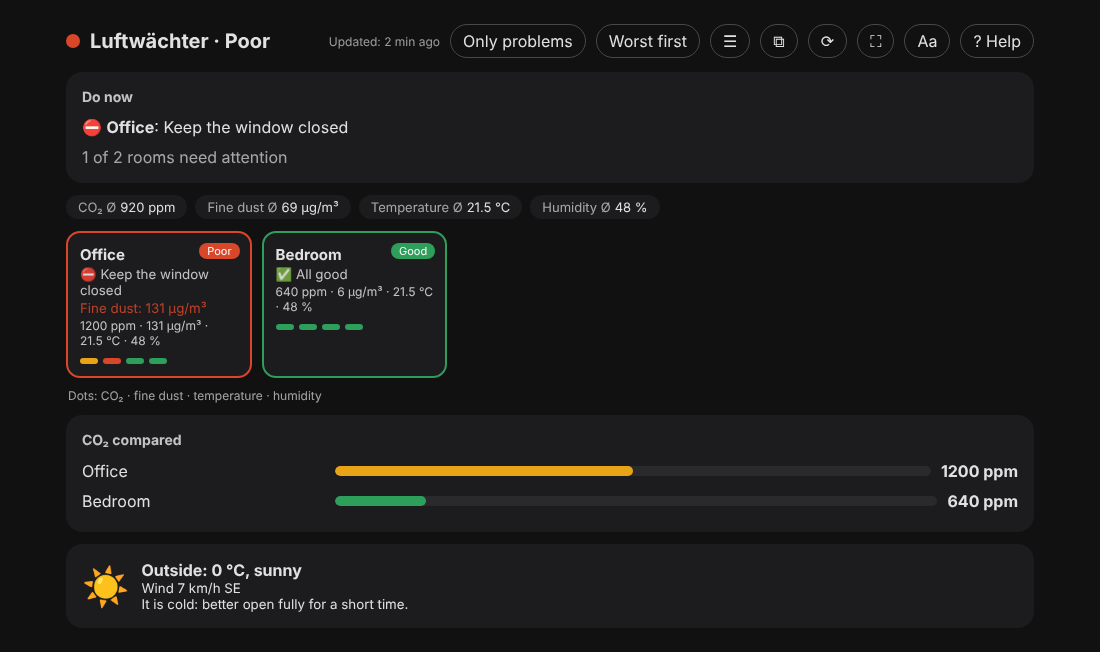
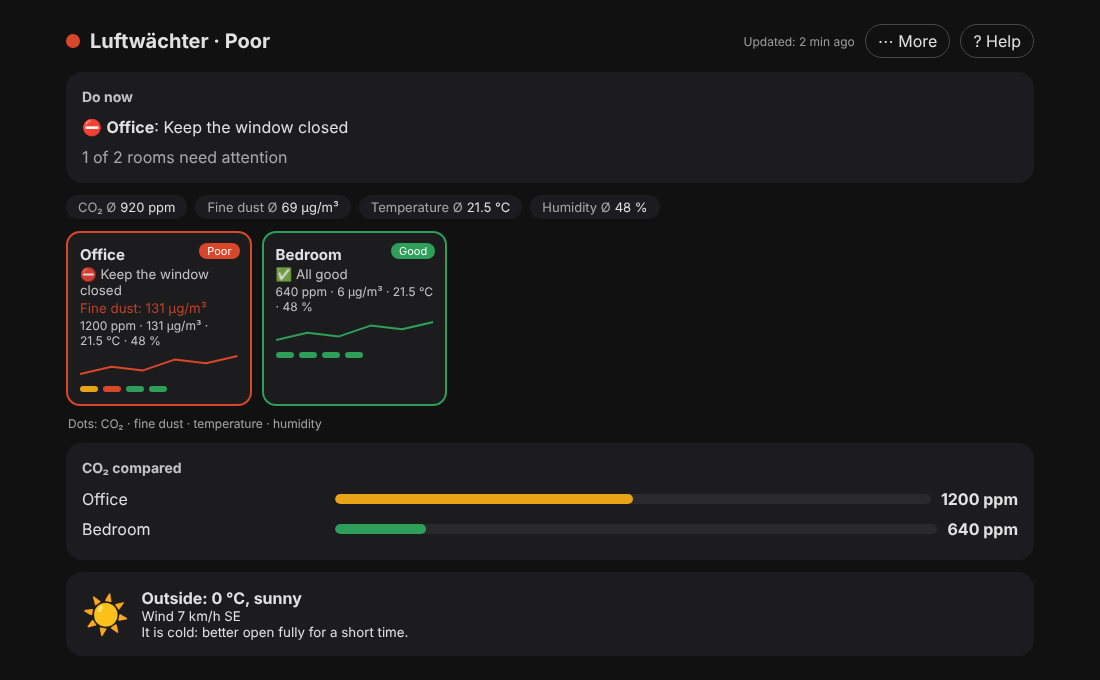
0.8.0: More menu, sparklines, time in level, color-blind mode, refresh from panel, automation blueprint, release zip
Claude-Session: https://claude.ai/code/session_01W38UNCWRvMYfcRr6jVyi8m

diff --git a/custom_components/luftwaechter/frontend/luftwaechter-panel.js b/custom_components/luftwaechter/frontend/luftwaechter-panel.js
@@ -11,7 +11,7 @@ const UI = {
     cover_open: "Auf", cover_stop: "Stopp", cover_close: "Zu", allgood: "Alle Werte im grünen Bereich.",
     isPoor: "ist schlecht", isFair: "ist mittel", tooHigh: "zu hoch", tooLow: "zu niedrig", limit: "Grenze",
     attention: "Jetzt tun", nothing: "Nichts zu tun, alles in Ordnung.", rooms_n: "{a} von {n} Räumen brauchen Aufmerksamkeit", stale: "Die Daten sind möglicherweise veraltet (letztes Update vor {n} min).",
-    size: "Textgröße", onbTitle: "So kommen Räume ins Panel", onb1: "Weise CO₂-, Feinstaub-, Temperatur- oder Luftfeuchte-Sensoren einem Bereich zu (Einstellungen → Bereiche).", onb2: "Der Raum erscheint automatisch, sobald ein Sensor Werte liefert.", onb3: "Optional: Gib einem Fenstersensor die Geräteklasse „Fenster“, dann bekommst du Lüftungsempfehlungen.", noHouse: "Die Integration Luftwächter wurde nicht gefunden. Einstellungen → Geräte & Dienste → Integration hinzufügen → Luftwächter.", legend: "Punkte: CO₂ · Feinstaub · Temperatur · Luftfeuchte", avgT: "Ø im Haus", ventStart: "Lüftungs-Timer starten ({n} min)", ventRun: "Lüften läuft", ventDone: "Zeit ist um: Fenster jetzt schließen", ventStop: "Abbrechen", fs: "Vollbild", fsExit: "Vollbild beenden", copyAll: "Hausstatus kopieren", trendUp: "Steigend", trendDown: "Fallend", onlyProblems: "Nur Probleme", rank: "CO₂ im Vergleich", rotate: "Räume automatisch durchschalten", csv: "CSV", shortcuts: "Tastatur: ← → Raum wechseln · Esc zurück · / suchen · S sortieren · O nur Probleme · V Listenansicht · R durchschalten · F Vollbild · H Hilfe", search: "Raum suchen…", noMatch: "Kein Raum gefunden.", listView: "Listenansicht", tileView: "Kachelansicht", soundOn: "Signalton bei Ablauf: an", soundOff: "Signalton bei Ablauf: aus", copyLink: "Link kopieren", mold: "Schimmelgefahr", dew: "Taupunkt", copy: "Status kopieren", copied: "Kopiert", r6h: "6 h", r24h: "24 h", r7d: "7 Tage", a6h: "vor 6 h", a24h: "vor 24 h", a7d: "vor 7 Tagen", dayU: "Tg", hourU: "h",
+    size: "Textgröße", onbTitle: "So kommen Räume ins Panel", onb1: "Weise CO₂-, Feinstaub-, Temperatur- oder Luftfeuchte-Sensoren einem Bereich zu (Einstellungen → Bereiche).", onb2: "Der Raum erscheint automatisch, sobald ein Sensor Werte liefert.", onb3: "Optional: Gib einem Fenstersensor die Geräteklasse „Fenster“, dann bekommst du Lüftungsempfehlungen.", noHouse: "Die Integration Luftwächter wurde nicht gefunden. Einstellungen → Geräte & Dienste → Integration hinzufügen → Luftwächter.", legend: "Punkte: CO₂ · Feinstaub · Temperatur · Luftfeuchte", avgT: "Ø im Haus", ventStart: "Lüftungs-Timer starten ({n} min)", ventRun: "Lüften läuft", ventDone: "Zeit ist um: Fenster jetzt schließen", ventStop: "Abbrechen", fs: "Vollbild", fsExit: "Vollbild beenden", copyAll: "Hausstatus kopieren", trendUp: "Steigend", trendDown: "Fallend", onlyProblems: "Nur Probleme", rank: "CO₂ im Vergleich", rotate: "Räume automatisch durchschalten", csv: "CSV", shortcuts: "Tastatur: ← → Raum wechseln · Esc zurück · / suchen · S sortieren · O nur Probleme · V Listenansicht · M Menü · R durchschalten · F Vollbild · H Hilfe", search: "Raum suchen…", noMatch: "Kein Raum gefunden.", listView: "Listenansicht", tileView: "Kachelansicht", soundOn: "Signalton bei Ablauf: an", soundOff: "Signalton bei Ablauf: aus", copyLink: "Link kopieren", mold: "Schimmelgefahr", dew: "Taupunkt", more: "Mehr", refreshNow: "Jetzt aktualisieren", cbMode: "Farbenblind-Modus (Symbole)", sinceFor: "{l} seit {t}", copy: "Status kopieren", copied: "Kopiert", r6h: "6 h", r24h: "24 h", r7d: "7 Tage", a6h: "vor 6 h", a24h: "vor 24 h", a7d: "vor 7 Tagen", dayU: "Tg", hourU: "h",
     helpTitle: "Was bedeuten die Messwerte?", causes: "Mögliche Ursachen", todo: "Was hilft",
     hCo2: "CO₂ (Kohlendioxid) zeigt, wie verbraucht die Raumluft ist. Wir atmen es aus.",
     cCo2: "Viele Personen im Raum, Schlafen bei geschlossenem Fenster, kleine Räume, geschlossene Türen, Kerzen oder Gasflammen.",
@@ -36,7 +36,7 @@ const UI = {
     cover_open: "Open", cover_stop: "Stop", cover_close: "Close", allgood: "All readings are in the green.",
     isPoor: "is poor", isFair: "is fair", tooHigh: "too high", tooLow: "too low", limit: "Limit",
     attention: "Do now", nothing: "Nothing to do, all good.", rooms_n: "{a} of {n} rooms need attention", stale: "Data may be outdated (last update {n} min ago).",
-    size: "Text size", onbTitle: "How rooms get into the panel", onb1: "Assign CO₂, fine dust, temperature or humidity sensors to an area (Settings → Areas).", onb2: "The room appears automatically as soon as a sensor reports values.", onb3: "Optional: give a window sensor the device class \"window\" to get ventilation advice.", noHouse: "The Luftwächter integration was not found. Settings → Devices & services → Add integration → Luftwächter.", legend: "Dots: CO₂ · fine dust · temperature · humidity", avgT: "House average", ventStart: "Start ventilation timer ({n} min)", ventRun: "Ventilating", ventDone: "Time is up: close the window now", ventStop: "Cancel", fs: "Full screen", fsExit: "Exit full screen", copyAll: "Copy house status", trendUp: "Rising", trendDown: "Falling", onlyProblems: "Only problems", rank: "CO₂ compared", rotate: "Rotate through rooms automatically", csv: "CSV", shortcuts: "Keyboard: ← → switch room · Esc back · / search · S sort · O only problems · V list view · R rotate · F full screen · H help", search: "Find a room…", noMatch: "No room found.", listView: "List view", tileView: "Tile view", soundOn: "Sound when time is up: on", soundOff: "Sound when time is up: off", copyLink: "Copy link", mold: "Mold risk", dew: "Dew point", copy: "Copy status", copied: "Copied", r6h: "6 h", r24h: "24 h", r7d: "7 days", a6h: "6 h ago", a24h: "24 h ago", a7d: "7 days ago", dayU: "d", hourU: "h",
+    size: "Text size", onbTitle: "How rooms get into the panel", onb1: "Assign CO₂, fine dust, temperature or humidity sensors to an area (Settings → Areas).", onb2: "The room appears automatically as soon as a sensor reports values.", onb3: "Optional: give a window sensor the device class \"window\" to get ventilation advice.", noHouse: "The Luftwächter integration was not found. Settings → Devices & services → Add integration → Luftwächter.", legend: "Dots: CO₂ · fine dust · temperature · humidity", avgT: "House average", ventStart: "Start ventilation timer ({n} min)", ventRun: "Ventilating", ventDone: "Time is up: close the window now", ventStop: "Cancel", fs: "Full screen", fsExit: "Exit full screen", copyAll: "Copy house status", trendUp: "Rising", trendDown: "Falling", onlyProblems: "Only problems", rank: "CO₂ compared", rotate: "Rotate through rooms automatically", csv: "CSV", shortcuts: "Keyboard: ← → switch room · Esc back · / search · S sort · O only problems · V list view · M menu · R rotate · F full screen · H help", search: "Find a room…", noMatch: "No room found.", listView: "List view", tileView: "Tile view", soundOn: "Sound when time is up: on", soundOff: "Sound when time is up: off", copyLink: "Copy link", mold: "Mold risk", dew: "Dew point", more: "More", refreshNow: "Refresh now", cbMode: "Color-blind mode (symbols)", sinceFor: "{l} for {t}", copy: "Copy status", copied: "Copied", r6h: "6 h", r24h: "24 h", r7d: "7 days", a6h: "6 h ago", a24h: "24 h ago", a7d: "7 days ago", dayU: "d", hourU: "h",
     helpTitle: "What do the readings mean?", causes: "Possible causes", todo: "What helps",
     hCo2: "CO₂ (carbon dioxide) shows how stale the room air is. We breathe it out.",
     cCo2: "Many people in the room, sleeping with the window closed, small rooms, closed doors, candles or gas flames.",
@@ -83,14 +83,14 @@ class LuftwaechterPanel extends HTMLElement {
     this._range = store.get("lw_range") || "24h";
     this._size = parseInt(store.get("lw_size") || "1", 10);
     this._only = store.get("lw_only") === "1";
-    this._list = store.get("lw_list") === "1"; this._snd = store.get("lw_snd") === "1"; this._q = "";
+    this._list = store.get("lw_list") === "1"; this._snd = store.get("lw_snd") === "1"; this._q = ""; this._cb = store.get("lw_cb") === "1"; this._menu = false;
     this._help = false;
     this._hist = {};
     try { const m = /[#&]room=([^&]+)/.exec(location.hash); if (m) this._sel = decodeURIComponent(m[1]); } catch (e) { /* ignore */ }
     try { const v = JSON.parse(store.get("lw_vent") || "null"); this._vent = v && v.end > Date.now() - 600000 ? v : null; } catch (e) { this._vent = null; }
     this._rot = false; this._rotTimer = null; this._wl = null;
     this._onFs = () => { this._wakelock(); this._render(); };
-    this.shadowRoot.addEventListener("pointerdown", (ev) => { if (this._rot && !ev.composedPath().some((n) => n.id === "rot")) this._rotStop(false); }, true);
+    this.shadowRoot.addEventListener("pointerdown", (ev) => { if (this._menu && !ev.composedPath().some((n) => n.id === "menuwrap")) this._toggleMenu(false); if (this._rot && !ev.composedPath().some((n) => n.id === "rot")) this._rotStop(false); }, true);
     this._onKey = (ev) => this._key(ev);
   }
   connectedCallback() {
@@ -112,6 +112,28 @@ class LuftwaechterPanel extends HTMLElement {
     const left = this._ventLeft(), root = this.shadowRoot;
     if (left <= 0 && !this._vent.done) { this._vent.done = true; store.set("lw_vent", JSON.stringify(this._vent)); try { navigator.vibrate && navigator.vibrate([200, 100, 200]); } catch (e) { /* ignore */ } if (this._snd) this._beep(); this._render(); return; }
     root.querySelectorAll(".venttime").forEach((n) => { n.textContent = this._fmtT(left); });
+  }
+  _toggleMenu(open) {
+    this._menu = open === undefined ? !this._menu : open;
+    const m = this.shadowRoot.querySelector("#menu"), b = this.shadowRoot.querySelector("#more");
+    if (m) m.hidden = !this._menu; if (b) b.setAttribute("aria-expanded", String(this._menu));
+    if (this._menu && m) m.querySelector("button")?.focus(); else if (b && open === undefined) b.focus();
+  }
+  _menuItems(rooms, sel, t) {
+    const b = (id, icon, label, pressed) => `<button class="mi" id="${id}"${pressed === undefined ? "" : ` aria-pressed="${pressed}"`}><span aria-hidden="true">${icon}</span> ${esc(label)}</button>`;
+    const many = rooms.length > 1, ov = !sel, fs = document.fullscreenElement;
+    return [ov && many ? b("only", "⚠", t.onlyProblems, this._only) : "", ov && many ? b("sort", "↕", this._sort === "worst" ? t.sortWorst : t.sortName) : "",
+      ov && many ? b("dens", this._list ? "▦" : "☰", this._list ? t.tileView : t.listView) : "", many ? b("rot", "⟳", t.rotate, this._rot) : "",
+      ov && rooms.length ? b("copyall", "⧉", t.copyAll) : "", document.fullscreenEnabled ? b("fs", fs ? "🗗" : "⛶", fs ? t.fsExit : t.fs) : "",
+      b("size", "Aa", t.size), b("cb", "◐", t.cbMode, this._cb), b("refresh", "↻", t.refreshNow)].join("");
+  }
+  _sym(i) { return ["✓", "!", "✕"][i] || "–"; }
+  _dur(min) { return min < 60 ? `${min} min` : `${Math.floor(min / 60)} h ${min % 60} min`; }
+  _spark(r) {
+    const d = r.spark; if (!d || d.length < 3) return "";
+    const mn = Math.min(...d), mx = Math.max(...d), rg = Math.max(mx - mn, 100), st = 100 / (d.length - 1);
+    const pts = d.map((v, i) => `${(i * st).toFixed(1)},${(20 - ((v - mn) / rg) * 18).toFixed(1)}`).join(" ");
+    return `<svg class="spark" viewBox="0 0 100 22" preserveAspectRatio="none" aria-hidden="true"><polyline points="${pts}" fill="none" stroke="${this._col(r.level)}" stroke-width="2" vector-effect="non-scaling-stroke" stroke-linejoin="round"/></svg>`;
   }
   _beep() {
     try {
@@ -174,6 +196,7 @@ class LuftwaechterPanel extends HTMLElement {
   _select(key) { this._sel = key; store.set("lw_room", key || ""); try { history.replaceState(null, "", key ? "#room=" + encodeURIComponent(key) : location.pathname + location.search); } catch (e) { /* ignore */ } this._render(); }
   _key(ev) {
     if (this.offsetParent === null && !this.isConnected) return;
+    if (ev.key === "Escape" && this._menu) { this._toggleMenu(false); this.shadowRoot.querySelector("#more")?.focus(); return; }
     if (ev.key === "Escape") { if (this._help) { this._closeHelp(); } else if (this._sel) this._select(null); return; }
     if (ev.ctrlKey || ev.metaKey || ev.altKey) return;
     const tg = ev.composedPath && ev.composedPath()[0];
@@ -185,6 +208,7 @@ class LuftwaechterPanel extends HTMLElement {
       if (k === "s" && !this._sel) { this._sort = this._sort === "worst" ? "name" : "worst"; store.set("lw_sort", this._sort); this._render(); return; }
       if (k === "o" && !this._sel) { this._only = !this._only; store.set("lw_only", this._only ? "1" : "0"); this._render(); return; }
       if (k === "/" && !this._sel) { const qi = this.shadowRoot.querySelector("#q"); if (qi) { ev.preventDefault(); qi.focus(); return; } }
+      if (k === "m") { this._toggleMenu(); return; }
       if (k === "v" && !this._sel) { this._list = !this._list; store.set("lw_list", this._list ? "1" : "0"); this._render(); return; }
       if (k === "r" && rooms_ok(this)) { this._rotToggle(); return; }
       if (k === "f") { try { document.fullscreenElement ? document.exitFullscreen() : this.requestFullscreen(); } catch (e) { /* ignore */ } return; }
@@ -371,10 +395,14 @@ header{position:sticky;top:0;z-index:5;background:var(--primary-background-color
 .onb ol{margin:8px 0 0;padding-left:20px;display:grid;gap:6px}
 .tiles.list{grid-template-columns:1fr}.tiles.list .tile{flex-direction:row;flex-wrap:wrap;align-items:center;gap:2px 14px}.tiles.list .tile b{padding-right:0;min-width:120px}.tiles.list .dots{margin:0 0 0 auto}.tiles.list .pill{position:static}
 .search{width:100%;margin:0 0 10px;padding:8px 12px;border-radius:18px;border:1px solid var(--divider-color,#8884);background:var(--card-background-color,#f4f6f8);color:inherit;font:inherit}
-.mold{color:#d9472b}[hidden]{display:none!important}
+.mold{color:#d9472b}
+.menuwrap{position:relative}.menu{position:absolute;right:0;top:calc(100% + 6px);z-index:20;min-width:250px;background:var(--card-background-color,#fff);border:1px solid var(--divider-color,#8884);border-radius:14px;padding:6px;display:grid;gap:2px;box-shadow:0 8px 24px #0006}
+.mi{border:0;background:none;text-align:left;padding:9px 12px;border-radius:10px;cursor:pointer;display:flex;gap:10px;align-items:center}.mi:hover{background:var(--secondary-background-color,#e8ebee)}.mi span{width:20px;text-align:center}.mi[aria-pressed=true]::after{content:"✓";margin-left:auto;color:var(--primary-color,#03a9f4)}
+.spark{display:block;width:100%;height:22px;margin-top:6px}.tiles.list .spark{width:110px;margin:0}
+.dots.cbd{gap:6px}.dots.cbd i{width:20px;height:20px;border-radius:6px;font-style:normal;font-size:12px;line-height:20px;text-align:center;color:#fff;font-weight:700}.val small .sym{font-weight:700;margin-right:4px}[hidden]{display:none!important}
 @media (forced-colors:active){.tile{border:2px solid CanvasText!important}}
 @media (prefers-reduced-motion:reduce){*{animation:none!important;transition:none!important;scroll-behavior:auto!important}}
-@media print{.tool,.back,#ovl,.chips{display:none!important}.wrap{max-width:none}}
+@media print{.menuwrap,.tool,.back,#ovl,.chips{display:none!important}.wrap{max-width:none}}
 @media (prefers-reduced-motion:no-preference){.tile,.dev,.chip{transition:filter .15s}}`;
     if (!e) { const has = this._hass && this._hass.states && Object.keys(this._hass.states).length > 5; root.innerHTML = `<style>${css}</style><div class="wrap" role="main">${has ? `<div class="card">${esc(t.noHouse)}</div>` : "<p>…</p>"}</div>`; return; }
     const a = this._attrs(), rooms = this._rooms();
@@ -391,22 +419,22 @@ header{position:sticky;top:0;z-index:5;background:var(--primary-background-color
         const bad = r.values.filter((v) => v.level >= 1 && v.raw != null).sort((x, y) => y.level - x.level)[0];
         const co2 = r.values.find((v) => v.key === "co2");
         return `<button class="tile" data-name="${esc(r.name.toLowerCase())}" data-room="${esc(r.key)}" style="border-color:${this._col(r.level)}" aria-label="${esc(r.name)}: ${esc(t[r.level] || t.unknown)}">
-          <b>${esc(r.name)}</b><span class="pill" style="background:${this._col(r.level)}">${esc(t[r.level] || t.unknown)}</span><small>${LVLICON[["good", "fair", "poor"].indexOf(r.level)] || "❔"} ${esc(r.headline)}</small>
-          ${bad ? `<small style="color:${COL[bad.level]}">${esc(t[bad.key])}: ${esc(bad.value)} ${esc(bad.unit)}</small>` : ""}<small class="mini">${r.values.filter((v) => v.raw != null).map((v) => esc(v.value) + "\u00a0" + esc(v.unit)).join(" · ")}</small>${r.trend === "up" || r.trend === "down" ? `<small>${r.trend === "up" ? "↗" : "↘"} ${esc(t[r.trend === "up" ? "trendUp" : "trendDown"])}</small>` : ""}${r.mold ? `<small class="mold">💧 ${esc(t.mold)}</small>` : ""}<div class="dots" aria-hidden="true">${r.values.map((v) => `<i title="${esc(t[v.key])}: ${esc(v.value)} ${esc(v.unit)}" style="background:${this._lcol(v.level)}"></i>`).join("")}</div></button>`;
+          <b>${esc(r.name)}</b><span class="pill" title="${r.since >= 2 ? esc(t.sinceFor.replace("{l}", t[r.level] || t.unknown).replace("{t}", this._dur(r.since))) : ""}" style="background:${this._col(r.level)}">${esc(t[r.level] || t.unknown)}</span><small>${LVLICON[["good", "fair", "poor"].indexOf(r.level)] || "❔"} ${esc(r.headline)}</small>
+          ${bad ? `<small style="color:${COL[bad.level]}">${esc(t[bad.key])}: ${esc(bad.value)} ${esc(bad.unit)}</small>` : ""}<small class="mini">${r.values.filter((v) => v.raw != null).map((v) => esc(v.value) + "\u00a0" + esc(v.unit)).join(" · ")}</small>${r.trend === "up" || r.trend === "down" ? `<small>${r.trend === "up" ? "↗" : "↘"} ${esc(t[r.trend === "up" ? "trendUp" : "trendDown"])}</small>` : ""}${r.mold ? `<small class="mold">💧 ${esc(t.mold)}</small>` : ""}${this._spark(r)}<div class="dots${this._cb ? " cbd" : ""}" aria-hidden="true">${r.values.map((v) => `<i title="${esc(t[v.key])}: ${esc(v.value)} ${esc(v.unit)}" style="background:${this._lcol(v.level)}">${this._cb ? this._sym(v.level) : ""}</i>`).join("")}</div></button>`;
       }).join("")}</div><p class="muted legend">${esc(t.legend)}</p>${this._rank(rooms, t)}`;
     } else {
       const li = rooms.findIndex((r) => r.key === sel.key);
       body = `<div class="nav"><button class="back" id="back">← ${esc(t.back)}</button><span class="sp"></span><button class="tool" id="link">${esc(t.copyLink)}</button><button class="tool" id="copy">${esc(t.copy)}</button><button class="tool" id="prev" aria-label="${esc(t.prev)}">‹</button><button class="tool" id="next" aria-label="${esc(t.next)}">›</button></div>
-      <div class="card"><div class="head"><span class="big">${["keep_closed", "unknown"].includes(sel.action) && LVLICON[["good", "fair", "poor"].indexOf(sel.level)] ? LVLICON[["good", "fair", "poor"].indexOf(sel.level)] : ICON[sel.action] || ""}</span><div><h2>${esc(sel.name)} · ${esc(sel.headline)}<span class="badge" style="background:${this._col(sel.level)}">${esc(t[sel.level] || t.unknown)}</span></h2><p>${esc(sel.detail)}</p>${sel.trend === "up" || sel.trend === "down" ? `<p class="muted">${sel.trend === "up" ? "↗" : "↘"} ${esc(t[sel.trend === "up" ? "trendUp" : "trendDown"])}</p>` : ""}</div></div>${sel.warn ? `<div class="warn">${esc(sel.warn)}</div>` : ""}</div>${this._ventCard(sel, t)}
+      <div class="card"><div class="head"><span class="big">${["keep_closed", "unknown"].includes(sel.action) && LVLICON[["good", "fair", "poor"].indexOf(sel.level)] ? LVLICON[["good", "fair", "poor"].indexOf(sel.level)] : ICON[sel.action] || ""}</span><div><h2>${esc(sel.name)} · ${esc(sel.headline)}<span class="badge" style="background:${this._col(sel.level)}">${esc(t[sel.level] || t.unknown)}</span></h2><p>${esc(sel.detail)}</p>${sel.trend === "up" || sel.trend === "down" ? `<p class="muted">${sel.trend === "up" ? "↗" : "↘"} ${esc(t[sel.trend === "up" ? "trendUp" : "trendDown"])}</p>` : ""}${sel.since >= 2 ? `<p class="muted">⏳ ${esc(t.sinceFor.replace("{l}", t[sel.level] || t.unknown).replace("{t}", this._dur(sel.since)))}</p>` : ""}</div></div>${sel.warn ? `<div class="warn">${esc(sel.warn)}</div>` : ""}</div>${this._ventCard(sel, t)}
       <div class="cols"><div><div class="card"><h3>${esc(t.problems)}</h3>${this._problems(sel, t)}</div>
-        <div class="card"><h3>${esc(t.values)}</h3><div class="vals">${sel.values.map((v) => `<div class="val" style="border-color:${this._lcol(v.level)}" title="${esc(t.limits)}: ${esc(this._lim(v.key))}"><small>${esc(t[v.key])}</small><b>${esc(v.value)}</b> <i>${esc(v.unit)}</i>${this._gauge(v)}</div>`).join("")}</div>${sel.dew ? `<p class="muted" style="margin-top:8px">${esc(t.dew)}: ${esc(sel.dew)} °C${sel.mold ? ` · <span class="mold">💧 ${esc(t.mold)}</span>` : ""}</p>` : ""}</div></div>
+        <div class="card"><h3>${esc(t.values)}</h3><div class="vals">${sel.values.map((v) => `<div class="val" style="border-color:${this._lcol(v.level)}" title="${esc(t.limits)}: ${esc(this._lim(v.key))}"><small>${this._cb ? `<span class="sym">${this._sym(v.level)}</span>` : ""}${esc(t[v.key])}</small><b>${esc(v.value)}</b> <i>${esc(v.unit)}</i>${this._gauge(v)}</div>`).join("")}</div>${sel.dew ? `<p class="muted" style="margin-top:8px">${esc(t.dew)}: ${esc(sel.dew)} °C${sel.mold ? ` · <span class="mold">💧 ${esc(t.mold)}</span>` : ""}</p>` : ""}</div></div>
         <div>${this._chart(sel, t)}${this._devices(sel, t)}</div></div>`;
       this._pendingHist = sel;
     }
     const o = a.outside;
     const out = o ? `<div class="card out"><span class="big">${esc(o.icon)}</span><div><b>${esc(t.outside)}: ${esc(o.temp)} °C, ${esc(o.cond)}</b><br><small>${esc(t.wind)} ${esc(o.wind)} km/h ${esc(o.windDir)}${o.hum && o.hum !== "–" ? " · " + esc(o.hum) + " %" : ""}</small><br><small>${esc(o.tip)}</small></div></div>` : "";
     root.innerHTML = `<style>${css}</style><div class="wrap" role="main"><header><span class="dot" style="background:${this._col(e.state)}"></span><h1 aria-live="polite">${esc(t.title)} · ${esc(t[e.state] || t.unknown)}</h1><span class="upd">${esc(this._age(e, t))}</span>
-      ${!sel && rooms.length > 1 ? `<button class="tool" id="only" aria-pressed="${this._only}">${esc(t.onlyProblems)}</button>` : ""}${!sel && rooms.length > 1 ? `<button class="tool" id="sort">${esc(this._sort === "worst" ? t.sortWorst : t.sortName)}</button>` : ""}${!sel && rooms.length > 1 ? `<button class="tool" id="dens" aria-pressed="${this._list}" title="${esc(this._list ? t.tileView : t.listView)}" aria-label="${esc(this._list ? t.tileView : t.listView)}">${this._list ? "▦" : "☰"}</button>` : ""}${this._vent && (!sel || sel.key !== this._vent.key) ? `<button class="tool" id="ventpill" data-room="${esc(this._vent.key)}">⏱ <span class="venttime">${esc(this._fmtT(this._ventLeft()))}</span></button>` : ""}${!sel && rooms.length ? `<button class="tool" id="copyall" title="${esc(t.copyAll)}" aria-label="${esc(t.copyAll)}">⧉</button>` : ""}${rooms.length > 1 ? `<button class="tool" id="rot" aria-pressed="${this._rot}" title="${esc(t.rotate)}" aria-label="${esc(t.rotate)}">⟳</button>` : ""}${document.fullscreenEnabled ? `<button class="tool" id="fs" title="${esc(document.fullscreenElement ? t.fsExit : t.fs)}" aria-label="${esc(document.fullscreenElement ? t.fsExit : t.fs)}">${document.fullscreenElement ? "🗗" : "⛶"}</button>` : ""}<button class="tool" id="size" aria-label="${esc(t.size)}" title="${esc(t.size)}">Aa</button><button class="tool" id="help" aria-label="${esc(t.help)}">? ${esc(t.help)}</button></header><div class="stale" id="stale" role="status" ${this._staleMin() < this._staleLimit() ? "hidden" : ""}>${esc(t.stale.replace("{n}", this._staleMin()))}</div>${body}${out}${this._helpDlg(t)}</div>`;
+      ${this._vent && (!sel || sel.key !== this._vent.key) ? `<button class="tool" id="ventpill" data-room="${esc(this._vent.key)}">⏱ <span class="venttime">${esc(this._fmtT(this._ventLeft()))}</span></button>` : ""}<span class="menuwrap" id="menuwrap"><button class="tool" id="more" aria-haspopup="true" aria-expanded="${this._menu}">⋯ ${esc(t.more)}</button><div class="menu" id="menu" ${this._menu ? "" : "hidden"}>${this._menuItems(rooms, sel, t)}</div></span><button class="tool" id="help" aria-label="${esc(t.help)}">? ${esc(t.help)}</button></header><div class="stale" id="stale" role="status" ${this._staleMin() < this._staleLimit() ? "hidden" : ""}>${esc(t.stale.replace("{n}", this._staleMin()))}</div>${body}${out}${this._helpDlg(t)}</div>`;
     const q = (s) => root.querySelector(s), qa = (s) => root.querySelectorAll(s);
     if (this._refocus) { this._refocus = false; q("#help")?.focus(); }
     qa(".tile").forEach((b) => b.addEventListener("click", () => this._select(b.dataset.room)));
@@ -423,6 +451,10 @@ header{position:sticky;top:0;z-index:5;background:var(--primary-background-color
     q("#ventstop")?.addEventListener("click", () => this._ventStop());
     q("#ventpill")?.addEventListener("click", (ev) => this._select(ev.currentTarget.dataset.room));
     q("#rot")?.addEventListener("click", () => this._rotToggle());
+    q("#more")?.addEventListener("click", () => this._toggleMenu());
+    q("#menu")?.addEventListener("click", () => { this._menu = false; }, true);
+    q("#cb")?.addEventListener("click", () => { this._cb = !this._cb; store.set("lw_cb", this._cb ? "1" : "0"); this._render(); });
+    q("#refresh")?.addEventListener("click", () => { try { this._hass.callService("luftwaechter", "refresh", {}); } catch (e) { /* ignore */ } });
     q("#dens")?.addEventListener("click", () => { this._list = !this._list; store.set("lw_list", this._list ? "1" : "0"); this._render(); });
     q("#snd")?.addEventListener("click", () => { this._snd = !this._snd; store.set("lw_snd", this._snd ? "1" : "0"); if (this._snd) this._beep(); this._render(); });
     q("#link")?.addEventListener("click", async (ev) => { const b = ev.currentTarget; try { await navigator.clipboard.writeText(location.origin + location.pathname + "#room=" + encodeURIComponent(sel.key)); b.textContent = t.copied + " ✓"; } catch (er) { b.textContent = "✗"; } });

diff --git a/tests/panel.spec.py b/tests/panel.spec.py
@@ -8,6 +8,7 @@ def room(k, n, lv, act, head, det, co2, pm=6, pml=0, co2l=1):
     return {"key": k, "name": n, "level": lv, "action": act, "headline": head, "detail": det, "warn": "",
         "values": [{"key": "co2", "value": str(co2), "raw": co2, "unit": "ppm", "level": co2l}, {"key": "pm25", "value": str(pm), "raw": pm, "unit": "µg/m³", "level": pml},
                    {"key": "temperature", "value": "21.5", "raw": 21.5, "unit": "°C", "level": 0}, {"key": "humidity", "value": "48", "raw": 48, "unit": "%", "level": 0}],
+        "spark": [co2 - 150, co2 - 90, co2 - 120, co2 - 30, co2 - 60, co2], "since": 95 if lv == "poor" else 12,
         "sources": {"carbon_dioxide": ["sensor.co2_" + k], "pm25": ["sensor.pm_" + k], "temperature": [], "humidity": []},
         "devices": [{"entity": "light.office", "name": "Lamp", "domain": "light", "group": "Light", "type": "switch"},
                     {"entity": "climate.a", "name": "Heizung", "domain": "climate", "group": "Heating", "type": "climate"},
@@ -133,6 +134,20 @@ with sync_playwright() as p:
     clk("#snd"); assert pg.evaluate("el._snd") is False
     pg.evaluate("() => { const h = el._hass; const e = h.states['sensor.luftwaechter_house']; e.attributes = window.orig; e.last_updated = 't13'; el.hass = Object.assign({}, h); el._select(null); }")
     assert pg.evaluate("el.shadowRoot.querySelectorAll('.tile').length") == 2 and pg.evaluate("!el.shadowRoot.querySelector('#q')")
+    # 0.8.0: header menu, sparklines, time in level, color-blind symbols, refresh action
+    assert pg.evaluate("el.shadowRoot.querySelector('#menu').hidden") is True
+    assert pg.evaluate("el.shadowRoot.querySelectorAll('.tile .spark').length") == 2 and "Poor for 1 h 35 min" not in pg.evaluate("el.shadowRoot.querySelector('.tile').textContent")
+    assert pg.evaluate("el.shadowRoot.querySelector('.tile .pill').title") == "Poor for 1 h 35 min"
+    pg.keyboard.press("m"); assert pg.evaluate("el.shadowRoot.querySelector('#menu').hidden") is False and pg.evaluate("el.shadowRoot.querySelector('#more').getAttribute('aria-expanded')") == "true"
+    assert pg.evaluate("[...el.shadowRoot.querySelectorAll('#menu .mi')].length") >= 7
+    pg.screenshot(path=str(out / "menu.png"))
+    pg.keyboard.press("Escape"); assert pg.evaluate("el.shadowRoot.querySelector('#menu').hidden") is True
+    clk("#refresh"); assert pg.evaluate("window.calls.at(-1)") == ["luftwaechter", "refresh", None]
+    clk("#cb"); assert pg.evaluate("el._cb") is True and pg.evaluate("!!el.shadowRoot.querySelector('.dots.cbd')") and "✓" in pg.evaluate("el.shadowRoot.querySelector('.dots').textContent")
+    pg.screenshot(path=str(out / "colorblind.png"))
+    clk("#cb"); assert pg.evaluate("el._cb") is False and pg.evaluate("!el.shadowRoot.querySelector('.dots.cbd')")
+    pg.evaluate("el._select('o')"); assert "Poor for 1 h 35 min" in txt()
+    pg.evaluate("el._select(null)")
     # German UI screenshot for the README: server text in English, this viewer is German
     pg.evaluate("""() => { const h = el._hass, e = h.states['sensor.luftwaechter_house']; const a = JSON.parse(JSON.stringify(window.orig));
       const m = { 'Keep the window closed': 'Fenster zu lassen', 'All good': 'Alles in Ordnung', 'High fine dust in the room. Do not ventilate continuously.': 'Hoher Feinstaub im Raum. Nicht dauerhaft lüften.', 'The window can stay closed.': 'Das Fenster kann geschlossen bleiben.' };
@@ -167,7 +182,7 @@ with sync_playwright() as p:
     if docs:
         docs.mkdir(exist_ok=True)
         import shutil
-        for src, dst, maxh in (("overview", "overview", 9999), ("room_desktop", "room", 9999), ("help", "help", 9999), ("room_phone", "phone", 9999), ("overview_de", "overview_de", 9999), ("overview_light", "overview_light", 9999), ("timer", "timer", 300)):
+        for src, dst, maxh in (("overview", "overview", 9999), ("room_desktop", "room", 9999), ("help", "help", 9999), ("room_phone", "phone", 9999), ("overview_de", "overview_de", 9999), ("overview_light", "overview_light", 9999), ("timer", "timer", 300), ("menu", "menu", 9999)):
             from PIL import Image, ImageChops
             im = Image.open(out / f"{src}.png").convert("RGB")
             bgc = Image.new("RGB", im.size, (17, 17, 17))

diff --git a/custom_components/luftwaechter/coordinator.py b/custom_components/luftwaechter/coordinator.py
@@ -43,6 +43,7 @@ class LuftwaechterCoordinator(DataUpdateCoordinator[dict]):
         self.lang = "en"
         self._samples: dict[str, deque] = {}
         self._levels: dict[str, str] | None = None
+        self._since: dict[str, tuple[str, float]] = {}
 
     @property
     def weather_entity(self) -> str | None:
@@ -126,6 +127,8 @@ class LuftwaechterCoordinator(DataUpdateCoordinator[dict]):
         """Add a rising/falling trend per room and fire an event when a room's level changes."""
         now = model["updated"]
         trends: dict[str, str] = {}
+        sparks: dict[str, list[int]] = {}
+        sinces: dict[str, int] = {}
         for r in model["rooms"]:
             co2 = next((v["raw"] for v in r["values"] if v["key"] == "co2"), None)
             pm = next((v["raw"] for v in r["values"] if v["key"] == "pm25"), None)
@@ -140,9 +143,17 @@ class LuftwaechterCoordinator(DataUpdateCoordinator[dict]):
                     trend = "up" if diff > step else "down" if diff < -step else "flat"
                 q.append((now, kind, val))
             trends[r["key"]] = trend
+            spark = [round(s[2]) for s in q if s[1] == kind][-30:]
+            sparks[r["key"]] = spark if len(spark) >= 3 else []
+            prev = self._since.get(r["key"])
+            if prev is None or prev[0] != r["level"]:
+                self._since[r["key"]] = (r["level"], now)
+            sinces[r["key"]] = int((now - self._since[r["key"]][1]) // 60)
         for rooms in [model["rooms"]] + [a["rooms"] for a in model.get("alt", {}).values()]:
             for r in rooms:
                 r["trend"] = trends.get(r["key"], "")
+                r["spark"] = sparks.get(r["key"], [])
+                r["since"] = sinces.get(r["key"], 0)
         levels = {r["key"]: r["level"] for r in model["rooms"]}
         if self._levels is not None:
             for r in model["rooms"]:

diff --git a/tests/test_integration.py b/tests/test_integration.py
@@ -121,6 +121,21 @@ async def test_attention_binary_sensor(hass, enable_custom_integrations):
     assert house.attributes["attention"] == 0 and house.attributes["stale_min"] == 10
 
 
+async def test_room_since_and_spark(hass, enable_custom_integrations):
+    entry, _eid = await _setup(hass, co2="1300")
+    coord = hass.data[DOMAIN][entry.entry_id]
+    for _ in range(2):
+        await coord.async_refresh()
+    await hass.async_block_till_done()
+    room = hass.states.get("sensor.luftwachter_house").attributes["rooms"][0]
+    assert room["spark"] == [1300, 1300, 1300] and room["since"] == 0
+    coord._since[room["key"]] = ("fair", coord.data["updated"] - 3600)
+    await coord.async_refresh()
+    await hass.async_block_till_done()
+    assert hass.states.get("sensor.luftwachter_house").attributes["rooms"][0]["since"] == 60
+    assert hass.states.get("sensor.luftwachter_office").attributes["since"] == 60
+
+
 async def test_stale_minutes_option(hass, enable_custom_integrations):
     await _setup(hass, options={"stale_minutes": 30})
     assert hass.states.get("sensor.luftwachter_house").attributes["stale_min"] == 30

diff --git a/tests/test_blueprint.py b/tests/test_blueprint.py
@@ -1,0 +1,33 @@
+import pathlib
+
+import yaml
+
+BP = pathlib.Path(__file__).parent.parent / "blueprints/automation/luftwaechter/level_changed.yaml"
+
+
+class _L(yaml.SafeLoader):
+    pass
+
+
+_L.add_constructor("!input", lambda loader, node: {"__input__": loader.construct_scalar(node)})
+
+
+def test_blueprint_is_valid_and_uses_defined_inputs():
+    doc = yaml.load(BP.read_text(encoding="utf-8"), Loader=_L)
+    bp = doc["blueprint"]
+    assert bp["domain"] == "automation" and bp["source_url"].startswith("https://github.com/DanStasiak/luftwaechter-ha/")
+    used = set()
+
+    def walk(x):
+        if isinstance(x, dict):
+            if "__input__" in x:
+                used.add(x["__input__"])
+            for v in x.values():
+                walk(v)
+        elif isinstance(x, list):
+            for v in x:
+                walk(v)
+
+    walk(doc)
+    assert used == set(bp["input"]), (used, set(bp["input"]))
+    assert doc["triggers"][0]["event_type"] == "luftwaechter_level_changed"

diff --git a/custom_components/luftwaechter/sensor.py b/custom_components/luftwaechter/sensor.py
@@ -96,4 +96,4 @@ class RoomSensor(CoordinatorEntity[LuftwaechterCoordinator], SensorEntity):
     @property
     def extra_state_attributes(self) -> dict:
         r = self._room() or {}
-        return {k: r.get(k) for k in ("action", "headline", "detail", "window", "ventMin", "trend", "warn", "mold", "dew", "values", "devices", "sources")}
+        return {k: r.get(k) for k in ("action", "headline", "detail", "window", "ventMin", "trend", "warn", "mold", "dew", "since", "values", "devices", "sources")}

diff --git a/custom_components/luftwaechter/__init__.py b/custom_components/luftwaechter/__init__.py
@@ -15,7 +15,7 @@ from .coordinator import LuftwaechterCoordinator
 
 PLATFORMS = ["sensor", "binary_sensor"]
 CONFIG_SCHEMA = cv.config_entry_only_config_schema(DOMAIN)
-_VERSION = "0.7.0"
+_VERSION = "0.8.0"
 
 
 async def async_setup(hass: HomeAssistant, config: ConfigType) -> bool:

diff --git a/README.md b/README.md
@@ -6,6 +6,7 @@
 [![Release](https://img.shields.io/github/v/release/DanStasiak/luftwaechter-ha)](https://github.com/DanStasiak/luftwaechter-ha/releases)
 ![Home Assistant Marketplace](https://img.shields.io/badge/Home%20Assistant-Marketplace%20%7C%20HACS-41BDF5.svg)
 [![License: MIT](https://img.shields.io/github/license/DanStasiak/luftwaechter-ha)](LICENSE)
+[![Downloads](https://img.shields.io/github/downloads/DanStasiak/luftwaechter-ha/total)](https://github.com/DanStasiak/luftwaechter-ha/releases)
 [![Last commit](https://img.shields.io/github/last-commit/DanStasiak/luftwaechter-ha)](https://github.com/DanStasiak/luftwaechter-ha/commits/main)
 [![Stars](https://img.shields.io/github/stars/DanStasiak/luftwaechter-ha?style=flat)](https://github.com/DanStasiak/luftwaechter-ha/stargazers)
 [![Issues](https://img.shields.io/github/issues/DanStasiak/luftwaechter-ha)](https://github.com/DanStasiak/luftwaechter-ha/issues)
@@ -17,7 +18,7 @@ Companion to the [Luftwächter Windows widget](https://github.com/DanStasiak/air
 
 <p align="center"><img src="https://raw.githubusercontent.com/DanStasiak/luftwaechter-ha/main/docs/demo.gif" width="640" alt="Demo: overview, room view, ventilation timer, German interface"></p>
 
-**Contents:** [Features](#features) · [Install](#install-marketplace) · [Update](#update) · [How it works](#how-it-works) · [Limits](#limits) · [Entities](#entities) · [Settings](#settings) · [Events](#events-for-automations) · [Wall tablet tips](#wall-tablet-tips) · [FAQ](#faq) · [Roadmap](#roadmap) · [Troubleshooting](#troubleshooting) · [Privacy](#privacy)
+**Contents:** [Features](#features) · [Install](#install-marketplace) · [Update](#update) · [How it works](#how-it-works) · [Limits](#limits) · [Entities](#entities) · [Settings](#settings) · [Events](#events-for-automations) · [Blueprint](#blueprint) · [Wall tablet tips](#wall-tablet-tips) · [FAQ](#faq) · [Roadmap](#roadmap) · [Troubleshooting](#troubleshooting) · [Privacy](#privacy)
 
 ## Features
 - **Do-now overview**: which rooms need attention, worst first, with a coloured dot per reading on every tile.
@@ -39,6 +40,10 @@ Companion to the [Luftwächter Windows widget](https://github.com/DanStasiak/air
 - **Easy to start**: a built-in guide when no rooms are found yet, deep links (`#room=<name>`) and a full-screen button.
 - **Mold warning**: at 70 % humidity or more a room gets a tip, and the room view shows the dew point.
 - **Search and list view**: find a room by name (press `/`) and switch the overview to a compact list (press `V`).
+- **Tidy header, clear menu**: everything secondary sits in a labelled **More** menu (press `M`).
+- **Sparklines and time in level**: the last hour on every tile, and "Poor for 1 h 35 min" in the room view.
+- **Color-blind mode** with symbols next to the colours, and **Refresh now** from the panel.
+- **Automation blueprint**: one click to get a "room became poor" notification, no YAML needed.
 - **Timer sound** (optional) and a **copy link** button for the deep link to a room.
 - **Entities for automations**: one sensor per room, a house sensor and an "Attention" binary sensor.
 
@@ -49,6 +54,10 @@ Companion to the [Luftwächter Windows widget](https://github.com/DanStasiak/air
 | List view |
 |---|
 | <img src="https://raw.githubusercontent.com/DanStasiak/luftwaechter-ha/main/docs/list.png" width="420" alt="List view"> |
+
+| More menu |
+|---|
+| <img src="https://raw.githubusercontent.com/DanStasiak/luftwaechter-ha/main/docs/menu.png" width="420" alt="More menu"> |
 
 | German | Ventilation timer |
 |---|---|
@@ -66,6 +75,8 @@ Home Assistant 2026.11 and newer have the **Marketplace** built in (Settings →
 4. Open **Luftwächter** in the sidebar. It is visible to every household user.
 
 Requires Home Assistant 2025.10 or newer.
+
+**Manual install:** download `luftwaechter.zip` from the [latest release](https://github.com/DanStasiak/luftwaechter-ha/releases/latest), unzip it into `config/custom_components/luftwaechter/` and restart Home Assistant.
 
 ## Update
 1. **Settings → Marketplace → Installed → Luftwächter → Update** (or the update entity under Settings → Updates).
@@ -104,7 +115,7 @@ The room level is the worst of the four.
 ## Entities
 | Entity | State | Attributes |
 |---|---|---|
-| `sensor.luftwachter_<room>` | good / fair / poor | action, headline, detail, window, trend, values, devices, sources |
+| `sensor.luftwachter_<room>` | good / fair / poor | action, headline, detail, window, trend, since, mold, dew, values, devices, sources |
 | `sensor.luftwachter_house` | worst level | rooms, outside, limits, updated, attention, attention_rooms, worst_room |
 | `binary_sensor.luftwachter_attention` | on while a room is poor or advises opening / waiting | count, rooms, worst_room |
 
@@ -131,14 +142,19 @@ actions:
   - action: notify.notify
     data: { message: "{{ trigger.event.data.room }}: {{ trigger.event.data.headline }}" }
 ```
-The room attribute `trend` is `up`, `down` or `flat` (CO₂ or fine dust compared with about 15 minutes ago).
+The room attribute `trend` is `up`, `down` or `flat` (CO₂ or fine dust compared with about 15 minutes ago), and `since` is how many minutes the room has been at its current level.
+
+### Blueprint
+Prefer clicks to YAML? Import the blueprint and pick the level, an optional room and what should happen (notification, speech, a light, anything). In your actions you can use `{{ room }}`, `{{ headline }}`, `{{ level }}` and `{{ previous }}`.
+
+[![Import blueprint](https://my.home-assistant.io/badges/blueprint_import.svg)](https://my.home-assistant.io/redirect/blueprint_import/?blueprint_url=https%3A%2F%2Fgithub.com%2FDanStasiak%2Fluftwaechter-ha%2Fblob%2Fmain%2Fblueprints%2Fautomation%2Fluftwaechter%2Flevel_changed.yaml)
 
 ## Actions and diagnostics
 - `luftwaechter.refresh` recalculates all rooms immediately.
 - **Download diagnostics** (device page, three dots) gives a compact, anonymous report for bug reports: levels, readings, sources and device ids, no names of people or accounts.
 
 ## Wall tablet tips
-- Keyboard: ← → switch room, Esc back, **S** sort, **O** only problems, **R** rotate rooms, **F** full screen, **H** help.
+- Keyboard: ← → switch room, Esc back, **/** search, **S** sort, **O** only problems, **V** list view, **M** menu, **R** rotate rooms, **F** full screen, **H** help.
 - **Rotate** (⟳ button or **R**) steps through the rooms every 12 seconds; a tap stops it. In full screen the panel asks the tablet to keep the screen on.
 - The header stays visible while you scroll.
 - Open the panel once, choose the **Aa** size, press the full-screen button.
@@ -151,6 +167,8 @@ The room attribute `trend` is `up`, `down` or `flat` (CO₂ or fine dust compare
 **Can I change the limits?** Yes, CO₂ and fine dust, under Configure (see Settings). Temperature and humidity use fixed comfort ranges.
 
 **What does the mold warning mean?** From 70 % relative humidity, mold can grow on cold surfaces such as outer walls. The tip is a guideline, not a measurement of mold; ventilate briefly and keep furniture off cold walls.
+
+**Can I use the panel if I cannot tell red from green?** Yes: turn on **Color-blind mode** in the **More** menu. Every reading then also shows a symbol (✓ fine, ! fair, ✕ poor).
 
 **Do I need a window sensor?** No. With one (device class "window") you get "open / close the window" advice; without it you get ventilation advice only.
 

diff --git a/CHANGELOG.md b/CHANGELOG.md
@@ -1,5 +1,16 @@
 # Changelog
 
+## 0.8.0
+- Header decluttered: sorting, filters, list view, rotate, full screen, text size and more now live in a labelled **More** menu (key `M`), with check marks for what is on.
+- Tiles show a small sparkline of the last hour, and the tooltip on the level badge tells how long the room has been at that level. The room view shows it too ("Poor for 1 h 35 min"). New room attribute `since` (minutes).
+- Color-blind mode (menu): readings get symbols (✓ ! ✕) in addition to colours, on tiles and in the room view.
+- "Refresh now" in the menu runs the `luftwaechter.refresh` action from the panel.
+- New automation blueprint: react when a room reaches a level (notification, speech, anything), with an optional room filter. Import it from the README.
+- Every release now carries `luftwaechter.zip` for manual installs.
+- README: blueprint section, manual install steps, download badge, menu screenshot, updated shortcuts and FAQ.
+- Tests: 29 (sparkline and time in level, blueprint check) plus new panel checks.
+- DE: Menü "Mehr" statt vieler Knöpfe im Kopf, Verlaufslinie auf den Kacheln, "seit wie lange" pro Raum, Farbenblind-Modus, "Jetzt aktualisieren", Automations-Blueprint, ZIP für manuelle Installation bei jeder Version.
+
 ## 0.7.0
 - Mold risk: rooms at 70 % humidity or more get a warning and a tip, and the room view shows the dew point.
 - New entity `binary_sensor.luftwachter_attention`: on while any room is poor or advises opening or waiting. Attributes list the rooms and the worst one.
